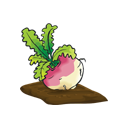
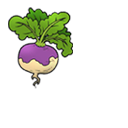
new crop orb: Turnips

diff --git a/src/main/java/thesimpleton/characters/TheSimpletonCharacter.java b/src/main/java/thesimpleton/characters/TheSimpletonCharacter.java
@@ -41,6 +41,7 @@ import thesimpleton.utilities.*;
 import java.util.ArrayList;
 import java.util.Collections;
 import java.util.List;
+import java.util.Optional;
 
 import static thesimpleton.TheSimpletonMod.getResourcePath;
 
@@ -450,14 +451,30 @@ public class TheSimpletonCharacter extends CustomPlayer implements StartGameSubs
 
     public void removeOrb(AbstractOrb orb) {
         if ((!this.orbs.isEmpty()) && this.orbs.stream().anyMatch(o -> o.ID == orb.ID)) {
-            final int index = this.orbs.indexOf(this.orbs.stream().filter(o -> o.ID == orb.ID));
-            AbstractOrb orbSlot = new EmptyOrbSlot(((AbstractOrb)this.orbs.get(index)).cX, ((AbstractOrb)this.orbs.get(index)).cY);
-            for (int i = index+1; i < this.orbs.size(); i++) {
-                Collections.swap(this.orbs, i, i - 1);
-            }
-            this.orbs.set(this.orbs.size() - 1, orbSlot);
+
             for (int i = 0; i < this.orbs.size(); i++) {
-                ((AbstractOrb)this.orbs.get(i)).setSlot(i, this.maxOrbs);
+                AbstractOrb o = this.orbs.get(i);
+                TheSimpletonMod.logger.debug("TheSimpletonCharacter.removeOrb :: orbs[" + i + "]: " + o.name + "; amount: " + o.passiveAmount);
+            }
+
+            Optional<AbstractOrb> orbOptional  = this.orbs.stream().filter(o -> {
+                TheSimpletonMod.logger.debug("TheSimpletonCharacter.removeOrb :: finding : " + orb.name + ". next orb:" + o.name);
+                return o instanceof AbstractCropOrb && o.ID == orb.ID;
+            }).findFirst();
+
+            if (orbOptional.isPresent()) {
+                final AbstractCropOrb targetOrb = (AbstractCropOrb) orbOptional.get();
+
+                final int index = this.orbs.indexOf(targetOrb);
+
+                AbstractOrb orbSlot = new EmptyOrbSlot(((AbstractOrb) this.orbs.get(index)).cX, ((AbstractOrb) this.orbs.get(index)).cY);
+                for (int i = index + 1; i < this.orbs.size(); i++) {
+                    Collections.swap(this.orbs, i, i - 1);
+                }
+                this.orbs.set(this.orbs.size() - 1, orbSlot);
+                for (int i = 0; i < this.orbs.size(); i++) {
+                    ((AbstractOrb) this.orbs.get(i)).setSlot(i, this.maxOrbs);
+                }
             }
         }
     }

diff --git a/src/main/java/thesimpleton/orbs/TurnipCropOrb.java b/src/main/java/thesimpleton/orbs/TurnipCropOrb.java
@@ -1,0 +1,57 @@
+package thesimpleton.orbs;
+
+import com.megacrit.cardcrawl.core.CardCrawlGame;
+import com.megacrit.cardcrawl.localization.OrbStrings;
+import com.megacrit.cardcrawl.orbs.AbstractOrb;
+import thesimpleton.TheSimpletonMod;
+import thesimpleton.crops.TurnipCrop;
+import thesimpleton.powers.utils.Crop;
+
+public class TurnipCropOrb extends AbstractCropOrb {
+  public static final Crop CROP_ENUM = Crop.TURNIPS;
+  public static final String ORB_ID = "TheSimpletonMod:TurnipCropOrb";
+  public static final String IMG_PATH = "TheSimpletonMod/img/orbs/plantturnip.png";
+  private static final OrbStrings orbStrings;
+  public static final String NAME;
+  public static final String[] DESCRIPTIONS;
+
+  public TurnipCropOrb() {
+    this(0);
+  }
+
+  public TurnipCropOrb(int amount) {
+    super(CROP_ENUM, ORB_ID, NAME, amount, TurnipCrop.MATURITY_THRESHOLD, DESCRIPTIONS[0], IMG_PATH);
+  }
+
+  @Override
+  public void onEvoke() {
+
+  }
+
+  @Override
+  public AbstractOrb makeCopy() {
+    return new TurnipCropOrb();
+  }
+
+  @Override
+  public void playChannelSFX() {
+    TheSimpletonMod.logger.debug(" ============================================= ADD playChannelSFX for " + this.name + " =============================================");
+  }
+
+  private static String getDescription() {
+    return getGenericDescription(TurnipCrop.MATURITY_THRESHOLD)
+        + " NL " + DESCRIPTIONS[0];
+  }
+
+  @Override
+  public void updateDescription() {
+    this.description = getDescription();
+    this.update();
+  }
+
+  static {
+    orbStrings = CardCrawlGame.languagePack.getOrbString(ORB_ID);
+    NAME = orbStrings.NAME;
+    DESCRIPTIONS = orbStrings.DESCRIPTION;
+  }
+}

diff --git a/src/main/java/thesimpleton/crops/TurnipCrop.java b/src/main/java/thesimpleton/crops/TurnipCrop.java
@@ -1,0 +1,38 @@
+package thesimpleton.crops;
+
+import com.megacrit.cardcrawl.actions.common.MakeTempCardInHandAction;
+import com.megacrit.cardcrawl.cards.AbstractCard;
+import com.megacrit.cardcrawl.dungeons.AbstractDungeon;
+import thesimpleton.cards.attack.BabyTurnip;
+import thesimpleton.cards.attack.GiantTurnip;
+import thesimpleton.cards.power.crop.AbstractCropPowerCard;
+import thesimpleton.cards.power.crop.Turnips;
+import thesimpleton.orbs.TurnipCropOrb;
+import thesimpleton.powers.utils.Crop;
+
+public class TurnipCrop extends AbstractCrop {
+  public static final Crop CROP_ENUM = Crop.TURNIPS;
+  private static final String ORB_ID = TurnipCropOrb.ORB_ID;
+  private static final AbstractCropPowerCard POWER_CARD = new Turnips();
+
+  private static final AbstractCard.CardRarity RARITY = AbstractCard.CardRarity.UNCOMMON;
+
+  public static final int MATURITY_THRESHOLD = 5;
+
+  public TurnipCrop() {
+    super(CROP_ENUM, ORB_ID, POWER_CARD, RARITY, MATURITY_THRESHOLD);
+  }
+
+  protected int calculateHarvestAmount(int amount, int maxAmount, boolean harvestAll) { return this.getAmount();  }
+
+  protected int harvestAction(int harvestAmount) {
+    if (harvestAmount > 0) {
+      if (harvestAmount == 1) {
+        AbstractDungeon.actionManager.addToBottom(new MakeTempCardInHandAction(new BabyTurnip(), 1));
+      } else {
+        AbstractDungeon.actionManager.addToBottom(new MakeTempCardInHandAction(new GiantTurnip(harvestAmount), 1));
+      }
+    }
+    return harvestAmount;
+  }
+}

diff --git a/src/main/java/thesimpleton/cards/power/crop/Turnips.java b/src/main/java/thesimpleton/cards/power/crop/Turnips.java
@@ -8,8 +8,11 @@ import com.megacrit.cardcrawl.localization.CardStrings;
 import com.megacrit.cardcrawl.monsters.AbstractMonster;
 import thesimpleton.TheSimpletonMod;
 import thesimpleton.actions.ApplyCropAction;
+import thesimpleton.actions.CropSpawnAction;
 import thesimpleton.cards.TheSimpletonCardTags;
 import thesimpleton.enums.AbstractCardEnum;
+import thesimpleton.orbs.OnionCropOrb;
+import thesimpleton.orbs.TurnipCropOrb;
 import thesimpleton.powers.PlantTurnipPower;
 
 public class Turnips extends AbstractCropPowerCard {
@@ -37,8 +40,7 @@ public class Turnips extends AbstractCropPowerCard {
 
   @Override
   public void use(AbstractPlayer p, AbstractMonster m) {
-    AbstractDungeon.actionManager.addToBottom(
-        new ApplyCropAction(p, p, new PlantTurnipPower(p, this.magicNumber, true), this.magicNumber, true));
+    AbstractDungeon.actionManager.addToBottom(new CropSpawnAction(new TurnipCropOrb(this.magicNumber)));
   }
 
   @Override

diff --git a/src/main/java/thesimpleton/powers/utils/Crop.java b/src/main/java/thesimpleton/powers/utils/Crop.java
@@ -15,7 +15,7 @@ public enum Crop {
   ONIONS(new OnionCrop()),
   POTATOES(new PotatoCrop()),
   SPINACH(new SpinachCrop()),
-  TURNIPS(null);
+  TURNIPS(new TurnipCrop());
 
   Crop(AbstractCrop crop) {
     this.crop = crop;
@@ -71,7 +71,7 @@ public enum Crop {
       case MUSHROOMS:
         return new MushroomCropOrb(amount);
       case ONIONS:
-//        return new OnionCropOrb(amount);
+        return new OnionCropOrb(amount);
       case POTATOES:
         return new PotatoCropOrb(amount);
       case SPINACH:
@@ -79,7 +79,7 @@ public enum Crop {
       case SQUASH:
         return new SquashCropOrb(amount);
       case TURNIPS:
-//        return new TurnipCropOrb(amount);
+        return new TurnipCropOrb(amount);
       default:
         throw new IllegalArgumentException("Crop cannot be null");
     }

diff --git a/src/main/java/thesimpleton/crops/AbstractCrop.java b/src/main/java/thesimpleton/crops/AbstractCrop.java
@@ -309,7 +309,7 @@ abstract public class AbstractCrop {
       final OnionCrop onionCrop = new OnionCrop();
       final PotatoCrop potatoCrop = new PotatoCrop();
       final SpinachCrop spinachCrop = new SpinachCrop();
-//      final PlantTurnipPower turnipPower = new PlantTurnipPower(dummy, 0);
+      final TurnipCrop turnipCrop = new TurnipCrop();
 
 //      referenceCrops.add(artichokePower);
       referenceCrops.add(asparagusCrop);
@@ -320,7 +320,7 @@ abstract public class AbstractCrop {
       referenceCrops.add(spinachCrop);
       referenceCrops.add(mushroomCrop);
       referenceCrops.add(onionCrop);
-//      referenceCrops.add(turnipPower);
+      referenceCrops.add(turnipCrop);
 
     }
     return referenceCrops;
